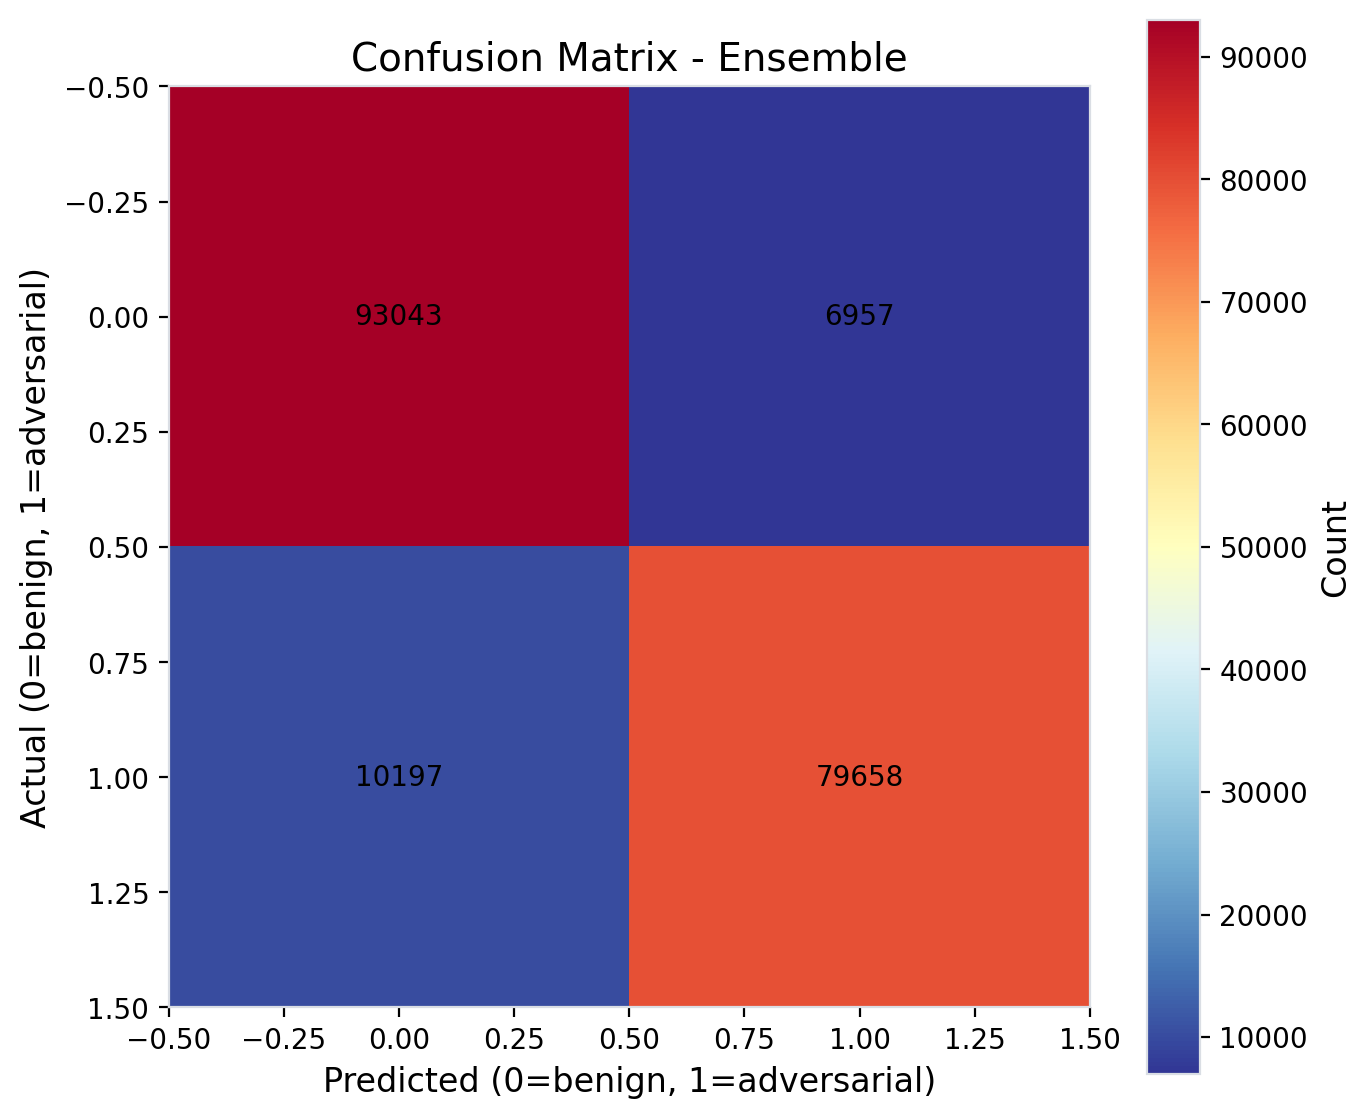
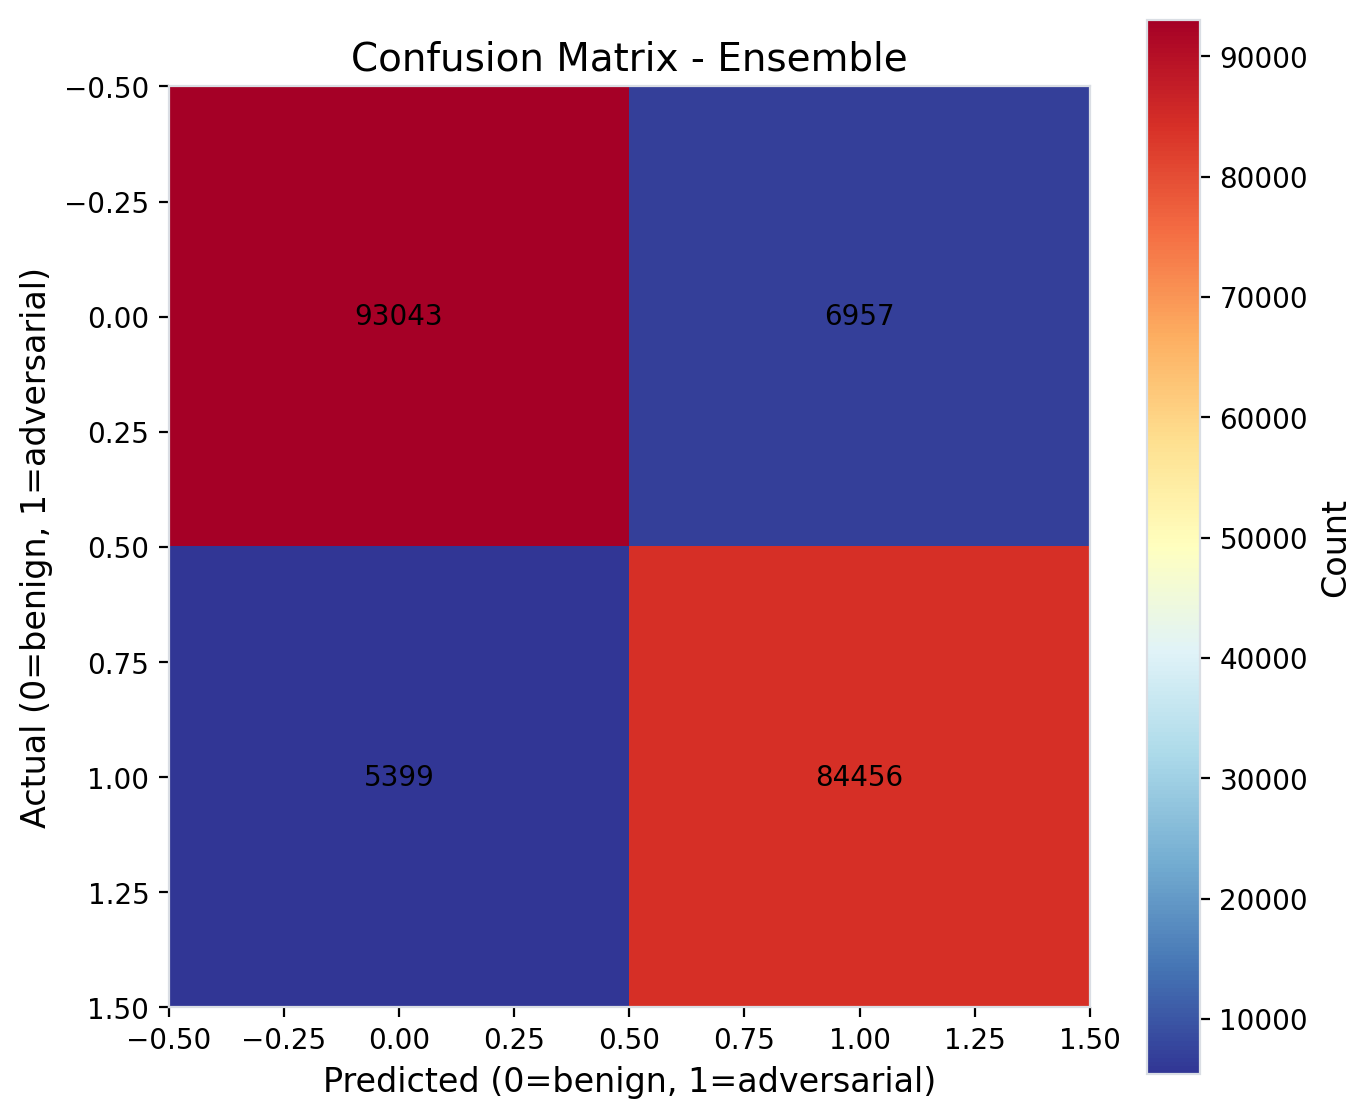
Improve ensemble model performance and add prebuilt semantic model

diff --git a/security/semantic_classifier.py b/security/semantic_classifier.py
@@ -22,6 +22,7 @@ try:
     import numpy as np  # type: ignore
 except Exception:
     np = None
+import json
 
 @dataclass
 class SemanticModel:
@@ -70,9 +71,65 @@ class SemanticModel:
         return out
 
 
+class PrebuiltLinearModel:
+    def __init__(self, bias: float, pos_weights: Dict[str, float], neg_weights: Dict[str, float]):
+        self.bias = float(bias)
+        self.pos = {k.lower(): float(v) for k, v in pos_weights.items()}
+        self.neg = {k.lower(): float(v) for k, v in neg_weights.items()}
+
+    def _score(self, text: str) -> float:
+        tl = text.lower()
+        z = self.bias
+        for k, w in self.pos.items():
+            if k in tl:
+                z += w
+        for k, w in self.neg.items():
+            if k in tl:
+                z += w
+        return z
+
+    def predict(self, arr: List[str]) -> List[int]:
+        out: List[int] = []
+        for a in arr:
+            z = self._score(a)
+            p1 = 1.0 / (1.0 + math.exp(-z)) if z >= 0 else math.exp(z) / (1.0 + math.exp(z))
+            out.append(1 if p1 >= 0.5 else 0)
+        return out
+
+    def predict_proba(self, arr: List[str]):
+        probs = []
+        for a in arr:
+            z = self._score(a)
+            if z >= 0:
+                ez = math.exp(-z)
+                p1 = 1.0 / (1.0 + ez)
+            else:
+                ez = math.exp(z)
+                p1 = ez / (1.0 + ez)
+            probs.append([1.0 - p1, p1])
+        return probs
+
+
+def load_prebuilt_semantic_model(path: str) -> SemanticModel:
+    with open(path, 'r', encoding='utf-8') as f:
+        data = json.load(f)
+    bias = float(data.get('bias', 0.0))
+    pos = data.get('weights', {})
+    neg = data.get('neg_weights', {})
+    model = PrebuiltLinearModel(bias, pos, neg)
+    return SemanticModel(model)
+
+
 def train_semantic_model(pairs: List[Tuple[str, str]]) -> SemanticModel:
     texts = [p for p, _ in pairs]
     labels = [1 if y.lower() in ("adversarial", "attack", "malicious") else 0 for _, y in pairs]
+    # Prefer prebuilt model if available
+    pre_path = os.getenv('SEMANTIC_MODEL_PATH') or os.path.join(os.path.dirname(__file__), 'models', 'semantic_lr.json')
+    try:
+        if os.path.exists(pre_path):
+            return load_prebuilt_semantic_model(pre_path)
+    except Exception:
+        pass
     if TfidfVectorizer is None or LogisticRegression is None or Pipeline is None or np is None:
         # Fallback: hashed-char+word ngram logistic regression via SGD
         dim = int(os.getenv('SEM_HASH_DIM', '131072'))
